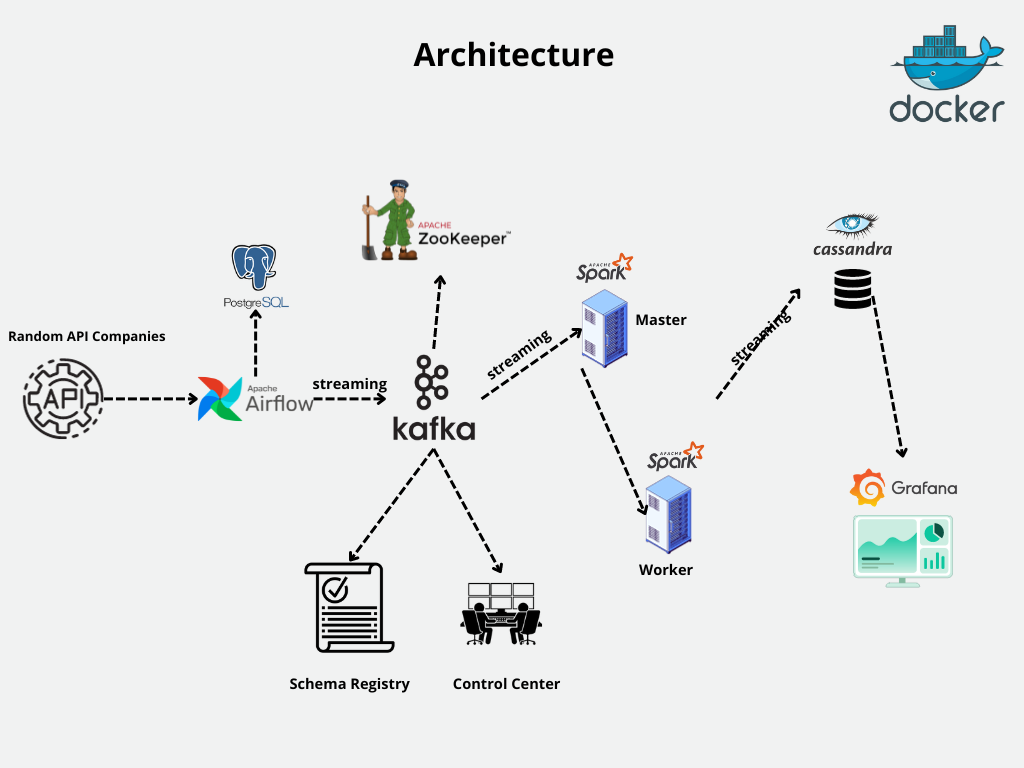
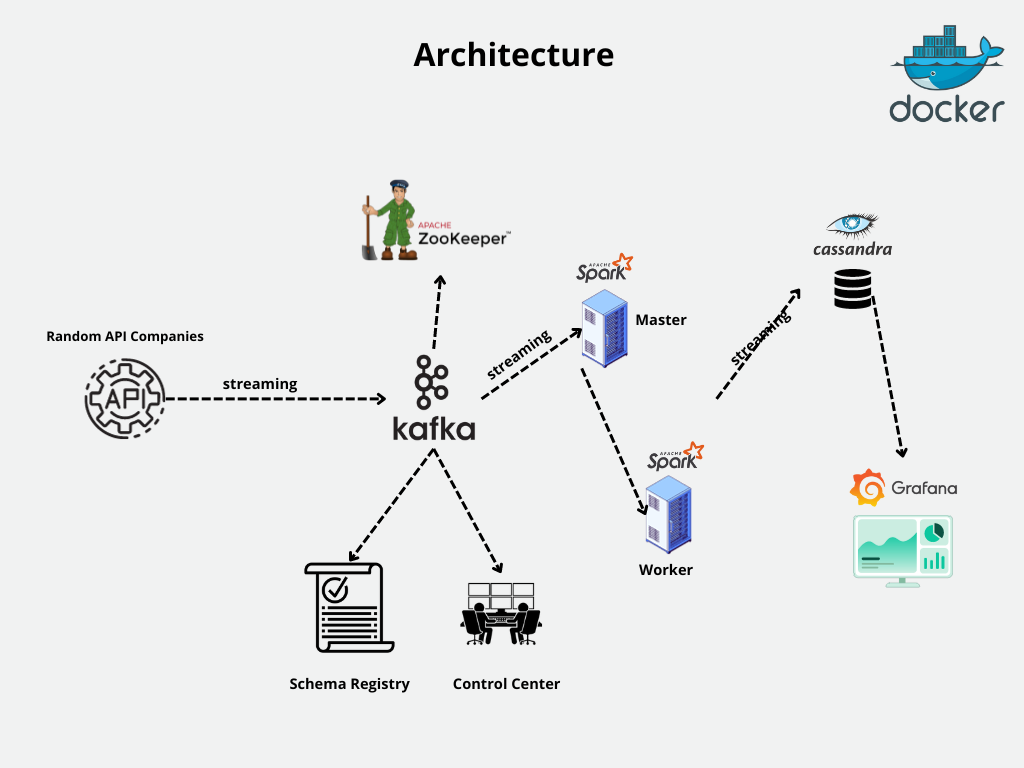
[FEAT] : streaming spark to cassandra

Changed region(s): [[0.0, 0.4062, 0.375, 0.5938], [0.2188, 0.3125, 0.2812, 0.4062]]

diff --git a/spark_stream.py b/spark_stream.py
@@ -1,0 +1,182 @@
+from array import ArrayType
+import logging
+import json
+from cassandra.cluster import Cluster
+from pyspark.sql import SparkSession
+from pyspark.sql.functions import from_json, col
+from pyspark.sql.types import StructType, StructField, StringType, DoubleType, IntegerType, ArrayType
+from pyspark.sql.functions import from_json, col
+
+
+def create_keyspace(session):
+    session.execute("""
+        CREATE KEYSPACE IF NOT EXISTS spark_streams
+        WITH replication = {'class': 'SimpleStrategy', 'replication_factor': '1'};
+    """)
+
+    print("Keyspace created successfully!")
+
+
+def create_table(session):
+    session.execute("""
+    CREATE TABLE IF NOT EXISTS spark_streams.companies_created (
+        id UUID PRIMARY KEY,
+        name TEXT,
+        email TEXT,
+        vat TEXT,
+        phone TEXT,
+        country TEXT,
+        website TEXT,
+        image TEXT,
+        addresses TEXT,  -- stocker comme une chaîne de caractères JSON
+        contact TEXT,    -- stocker comme une chaîne de caractères JSON
+        revenue DOUBLE,
+        number_of_employees INT,
+        sector TEXT,
+        founded_date TEXT,
+        valuation DOUBLE,
+        investment_received DOUBLE);
+        """)
+
+    print("Table created successfully!")
+
+
+def insert_data(session, **kwargs):
+    print("inserting data...")
+
+    company_id = kwargs.get('id')
+    name = kwargs.get('name')
+    email = kwargs.get('email')
+    vat = kwargs.get('vat')
+    phone = kwargs.get('phone')
+    country = kwargs.get('country')
+    website = kwargs.get('website')
+    image = kwargs.get('image')
+    addresses = json.dumps(kwargs.get('addresses'))
+    # Convertir les informations de contact en chaîne de caractères JSON
+    contact = json.dumps(kwargs.get('contact'))
+    revenue = kwargs.get('revenue')
+    picture = kwargs.get('picture')
+    number_of_employees = kwargs.get('number_of_employees')
+    sector = kwargs.get('sector')
+    founded_date = kwargs.get('founded_date')
+    valuation = kwargs.get('valuation')
+    investment_received = kwargs.get('investment_received')
+
+    try:
+        session.execute("""
+            INSERT INTO spark_streams.companies_created(id, name, email, vat, phone, country, website, 
+                        image, addresses, contact, revenue, number_of_employees, sector, founded_date, valuation, investment_received)
+                VALUES (%s, %s, %s, %s, %s, %s, %s, %s, %s, %s, %s, %s, %s, %s, %s, %s)
+        """, (company_id, name, email, vat, phone, country,
+              website, image, addresses, contact, revenue, number_of_employees, sector, founded_date, valuation,
+              investment_received))
+        logging.info(f"Data inserted for company {name}")
+    except Exception as e:
+        logging.error(f'Could not insert data due to {e}')
+
+
+def create_spark_connection():
+    try:
+        s_conn = SparkSession.builder \
+            .appName("CassandraConnectionTest") \
+            .config("spark.cassandra.connection.host", "cassandra") \
+            .config("spark.cassandra.connection.port", "9042") \
+            .config("spark.cassandra.auth.username", "cassandra") \
+            .config("spark.cassandra.auth.password", "cassandra") \
+            .getOrCreate()
+
+        s_conn.sparkContext.setLogLevel("ERROR")
+        print("-------------------------------------------------------------------------------------")
+        print("Spark connection created successfully!")
+        return s_conn
+    except Exception as e:
+        logging.error(f"Couldn't create the spark session due to exception {e}")
+        return None
+
+
+def connect_to_kafka(spark_conn):
+    print("passage")
+    spark_df = None
+    try:
+        spark_df = spark_conn.readStream \
+            .format('kafka') \
+            .option('kafka.bootstrap.servers', 'broker:29092') \
+            .option('subscribe', 'companies_created') \
+            .option('startingOffsets', 'earliest') \
+            .option("failOnDataLoss", "false") \
+            .load()
+        logging.info("kafka dataframe created successfully")
+    except Exception as e:
+        logging.warning(f"kafka dataframe could not be created because: {e}")
+
+    return spark_df
+
+
+def create_cassandra_connection():
+    try:
+        # connecting to the cassandra cluster
+        cluster = Cluster(['cassandra'])
+
+        cas_session = cluster.connect()
+
+        return cas_session
+    except Exception as e:
+        logging.error(f"Could not create cassandra connection due to {e}")
+        return None
+
+
+def create_selection_df_from_kafka(spark_df):
+    # Définition du schéma pour les données d'entreprise
+    schema = StructType([
+        StructField("id", StringType(), True),
+        StructField("name", StringType(), True),
+        StructField("email", StringType(), True),
+        StructField("vat", StringType(), True),
+        StructField("phone", StringType(), True),
+        StructField("country", StringType(), True),
+        StructField("website", StringType(), True),
+        StructField("image", StringType(), True),
+        StructField("addresses", ArrayType(StringType()), True),  # Une liste d'adresses
+        StructField("contact", StringType(), True),  # Contact comme chaîne JSON
+        StructField("revenue", DoubleType(), True),
+        StructField("number_of_employees", IntegerType(), True),
+        StructField("sector", StringType(), True),
+        StructField("founded_date", StringType(), True),
+        StructField("valuation", DoubleType(), True),
+        StructField("investment_received", DoubleType(), True)
+    ])
+
+    # Sélection et transformation des données
+    sel = spark_df.selectExpr("CAST(value AS STRING)") \
+        .select(from_json(col('value'), schema).alias('data')).select("data.*")
+
+    print(sel)
+
+    return sel
+
+
+if __name__ == "__main__":
+    # create spark connection
+    spark_conn = create_spark_connection()
+
+    if spark_conn is not None:
+        #     # connect to kafka with spark connection
+        spark_df = connect_to_kafka(spark_conn)
+        print(spark_df)
+        selection_df = create_selection_df_from_kafka(spark_df)
+        session = create_cassandra_connection()
+
+        if session is not None:
+            create_keyspace(session)
+            create_table(session)
+
+        logging.info("Streaming is being started...")
+
+        streaming_query = (selection_df.writeStream.format("org.apache.spark.sql.cassandra")
+                           .option('checkpointLocation', '/tmp/checkpoint')
+                           .option('keyspace', 'spark_streams')
+                           .option('table', 'companies_created')
+                           .start())
+
+        streaming_query.awaitTermination()
